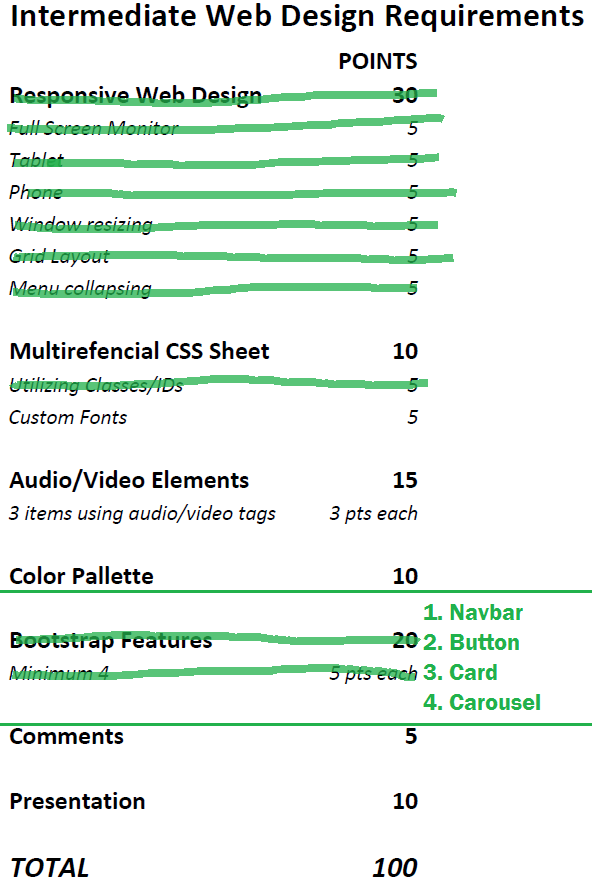
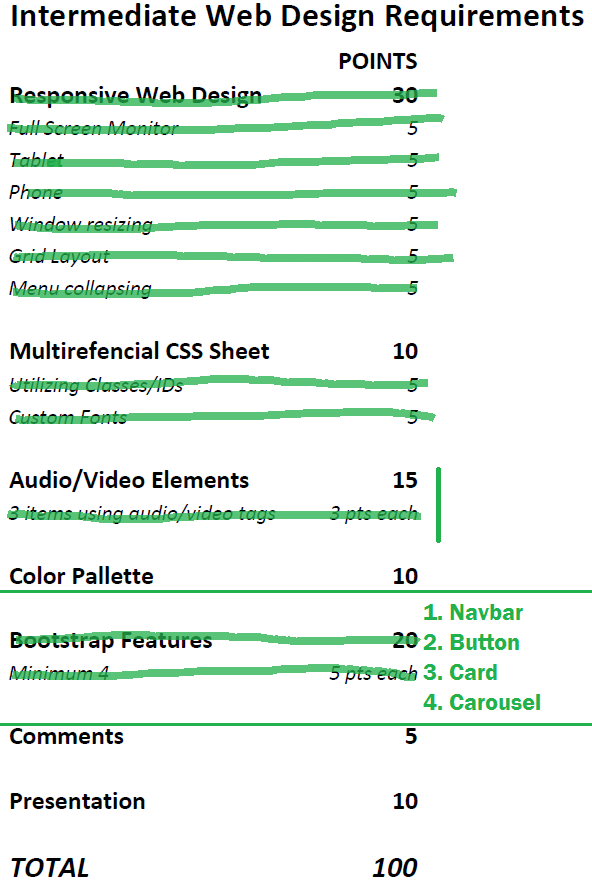
Added custom fonts.

Changed region(s): [[0.0, 0.5157, 0.7601, 0.6067], [0.0304, 0.4551, 0.7297, 0.4854]]

diff --git a/benjaminsSteakhouseForJacobPreview/index.html b/benjaminsSteakhouseForJacobPreview/index.html
@@ -7,15 +7,17 @@
     <meta name="date" content="December 3, 2018" >
     <link rel="icon" href="assets/img/BridgeValleyLogoFavicon.png" type="image/png">
     <meta name="viewport" content="width=device-width, initial-scale=1.0">
+    <link href="https://fonts.googleapis.com/css?family=Titillium+Web" rel="stylesheet">
+    <link href="https://fonts.googleapis.com/css?family=Nunito" rel="stylesheet">
     <link rel="stylesheet" href="assets/css/bootstrap.css">
     <link rel="stylesheet" href="assets/css/main.css">
   </head>
   <body>
     <!-- got the hex code for BG-DARK from BS source, converted to RGB for transparency-->
-    <nav class="navbar navbar-dark navbar-expand-lg fixed-top bs-gray-dark">
+    <nav class="titillium-font navbar navbar-dark navbar-expand-lg fixed-top bs-gray-dark">
       <div class="container">
         <a href="https://benmerchant.github.io/benjaminsSteakhouseForJacobPreview/" class="navbar-brand">
-          <i class="fas fa-utensils"></i>  Benjamin's Steakhouse
+          <i class="fas fa-utensils"></i>&nbsp;&nbsp;&nbsp;&nbsp;Benjamin's Steakhouse
         </a>
         <!-- Hamburger button. Only appears on LARGE or greater -->
         <!-- using text-white for hamburger... .navbar-dark makes it white, but wiht 0.5 opacity -->
@@ -99,7 +101,7 @@
           </div> <!-- end section header col -->
         </div> <!-- end section header row -->
         <!-- the actual review slider goes here!!! -->
-        <div class="row">
+        <div class="row nunito-font">
           <div class="col-12 px-5">
             <blockquote class="blockquote text-center px-5">
               <p class="font-weight-bold mt-1 mb-3">
@@ -252,7 +254,7 @@
                           <img class="d-block w-100" src="assets/img/five_k.jpg" title="Five Thousand Meters">
                         </div>
                         <div class="col-6 p-5">
-                          Lorem ipsum dolor sit amet, consectetur adipisicing elit, sed do eiusmod tempor incididunt ut labore et dolore magna aliqua. Ut enim ad minim veniam, quis nostrud exercitation ullamco laboris nisi ut aliquip ex ea commodo consequat. Duis aute irure dolor in reprehenderit in voluptate velit esse cillum dolore eu fugiat nulla pariatur. Excepteur sint occaecat cupidatat non proident, sunt in culpa qui officia deserunt mollit anim id est laborum.
+                          <p>Lorem ipsum dolor sit amet, consectetur adipisicing elit, sed do eiusmod tempor incididunt ut labore et dolore magna aliqua. Ut enim ad minim veniam, quis nostrud exercitation ullamco laboris nisi ut aliquip ex ea commodo consequat. Duis aute irure dolor in reprehenderit in voluptate velit esse cillum dolore eu fugiat nulla pariatur. Excepteur sint occaecat cupidatat non proident, sunt in culpa qui officia deserunt mollit anim id est laborum.</p>
                         </div>
                       </div>
                     </div>
@@ -266,7 +268,7 @@
                           <img class="d-block w-100" src="assets/img/school_kids_with_teacher.jpg" title="Five Thousand Meters">
                         </div>
                         <div class="col-6 py-5">
-                          Lorem ipsum dolor sit amet, consectetur adipisicing elit, sed do eiusmod tempor incididunt ut labore et dolore magna aliqua. Ut enim ad minim veniam, quis nostrud exercitation ullamco laboris nisi ut aliquip ex ea commodo consequat. Duis aute irure dolor in reprehenderit in voluptate velit esse cillum dolore eu fugiat nulla pariatur. Excepteur sint occaecat cupidatat non proident, sunt in culpa qui officia deserunt mollit anim id est laborum.
+                          <p>Lorem ipsum dolor sit amet, consectetur adipisicing elit, sed do eiusmod tempor incididunt ut labore et dolore magna aliqua. Ut enim ad minim veniam, quis nostrud exercitation ullamco laboris nisi ut aliquip ex ea commodo consequat. Duis aute irure dolor in reprehenderit in voluptate velit esse cillum dolore eu fugiat nulla pariatur. Excepteur sint occaecat cupidatat non proident, sunt in culpa qui officia deserunt mollit anim id est laborum.</p>
                         </div>
                       </div>
                     </div>
@@ -280,7 +282,7 @@
                           <img class="d-block w-100" src="assets/img/car_wash.jpg" title="Five Thousand Meters">
                         </div>
                         <div class="col-6 py-5">
-                          Lorem ipsum dolor sit amet, consectetur adipisicing elit, sed do eiusmod tempor incididunt ut labore et dolore magna aliqua. Ut enim ad minim veniam, quis nostrud exercitation ullamco laboris nisi ut aliquip ex ea commodo consequat. Duis aute irure dolor in reprehenderit in voluptate velit esse cillum dolore eu fugiat nulla pariatur. Excepteur sint occaecat cupidatat non proident, sunt in culpa qui officia deserunt mollit anim id est laborum.
+                          <p>Lorem ipsum dolor sit amet, consectetur adipisicing elit, sed do eiusmod tempor incididunt ut labore et dolore magna aliqua. Ut enim ad minim veniam, quis nostrud exercitation ullamco laboris nisi ut aliquip ex ea commodo consequat. Duis aute irure dolor in reprehenderit in voluptate velit esse cillum dolore eu fugiat nulla pariatur. Excepteur sint occaecat cupidatat non proident, sunt in culpa qui officia deserunt mollit anim id est laborum.</p>
                         </div>
                       </div>
                     </div>
@@ -311,7 +313,7 @@
         <!-- reservation form goes here -->
         <div class="row">
           <div class="col-lg-6 py-5">
-            <form class="">
+            <form class="nunito-font">
               <div class="row px-4">
                 <div class="col-md-6">
                   <input type="text" class="form-control my-2" placeholder="Date">
@@ -373,11 +375,11 @@
                 </div>
                 <div class="card-body blogposts text-left p-0">
                   <a href="blog.html"><h5 class="card-title">The Obama's Paid Us a Visit</h5></a>
-                  <span class="bg-dark text-white p-1">Oct 31, 2018</span>
-                  <p class="card-text my-2 text-muted">On an inauspicious Wednesday, the former POTUS and FLOTUS dropped in unannounced.<p>
+                  <span class="nunito-font bg-dark text-white p-1">Oct 31, 2018</span>
+                  <p class="card-text my-2 text-muted">On an inauspicious Wednesday, the former POTUS and FLOTUS dropped in unannounced.</p>
                 </div>
                 <div class="card-footer bg-white text-black-50">
-                  'X' people talking about this
+                  <p>'X' people talking about this</p>
                 </div>
               </div>
             </div>
@@ -387,11 +389,11 @@
                   <img class="card-img-top rounded-0" src="assets/img/obamas_dining.jpg" title="Michelle Obama 2020">
                 </div>                <div class="card-body blogposts text-left p-0">
                   <a href="blog.html"><h5 class="card-title">The Obama's Paid Us a Visit</h5></a>
-                  <span class="bg-dark text-white p-1">Oct 31, 2018</span>
-                  <p class="card-text my-2 text-muted">On an inauspicious Wednesday, the former POTUS and FLOTUS dropped in unannounced.<p>
+                  <span class="nunito-font bg-dark text-white p-1">Oct 31, 2018</span>
+                  <p class="card-text my-2 text-muted">On an inauspicious Wednesday, the former POTUS and FLOTUS dropped in unannounced.</p>
                 </div>
                 <div class="card-footer bg-white text-black-50">
-                  'X' people talking about this
+                  <p>'X' people talking about this</p>
                 </div>
               </div>
             </div>
@@ -400,11 +402,11 @@
                 <img class="card-img-top rounded-0" src="assets/img/obamas_dining.jpg" title="Michelle Obama 2020">
                 <div class="card-body blogposts text-left p-0">
                   <a href="blog.html"><h5 class="card-title">The Obama's Paid Us a Visit</h5></a>
-                  <span class="bg-dark text-white p-1">Oct 31, 2018</span>
+                  <span class="nunito-font bg-dark text-white p-1">Oct 31, 2018</span>
                   <p class="card-text my-2 text-muted">On an inauspicious Wednesday, the former POTUS and FLOTUS dropped in unannounced.<p>
                 </div>
                 <div class="card-footer bg-white text-black-50">
-                  'X' people talking about this
+                  <p>'X' people talking about this</p>
                 </div>
               </div>
             </div>
@@ -415,11 +417,11 @@
                 </div>
                 <div class="card-body blogposts text-left p-0">
                   <a href="blog.html"><h5 class="card-title">The Obama's Paid Us a Visit</h5></a>
-                  <span class="bg-dark text-white p-1">Oct 31, 2018</span>
+                  <span class="nunito-font bg-dark text-white p-1">Oct 31, 2018</span>
                   <p class="card-text my-2 text-muted">On an inauspicious Wednesday, the former POTUS and FLOTUS dropped in unannounced.<p>
                 </div>
                 <div class="card-footer bg-white text-black-50">
-                  'X' people talking about this
+                  <p>'X' people talking about this</p>
                 </div>
               </div>
             </div>
@@ -449,8 +451,8 @@
           </div> <!-- end section header col -->
         </div> <!-- end section header row -->
         <!-- this row contains both audio files -->
-        <div class="row">
-          <div class="col py-5" style="background:white">
+        <div class="row justify-content-around px-md-5 px-sm-3">
+          <div class="col-lg-5 py-5 col-12" style="background:white">
             <div class="container">
               <div class="row">
                 <div class="col-12">
@@ -465,7 +467,7 @@
               </div>
             </div>
           </div>
-          <div class="col py-5" style="background:white">
+          <div class="col-lg-5 py-5 col-12" style="background:white">
             <div class="container">
               <div class="row">
                 <div class="col-12">

diff --git a/benjaminsSteakhouseForJacobPreview/assets/css/main.css b/benjaminsSteakhouseForJacobPreview/assets/css/main.css
@@ -30,6 +30,18 @@ body {
   margin-bottom: 99px;
 }
 
+.nunito-font, p {
+  font-family: 'Nunito', sans-serif;
+}
+
+.titillium-font, .section-header, .blogposts, .btn, .card-helper div h5 {
+  font-family: 'Titillium Web', sans-serif;
+}
+/* clean up later, this covers the menu title and price */
+.card-helper div h5 {
+  font-weight: bold;
+}
+
 /* this is the same element as .container-fluid */
 main#big-box {
   background-color: grey;
